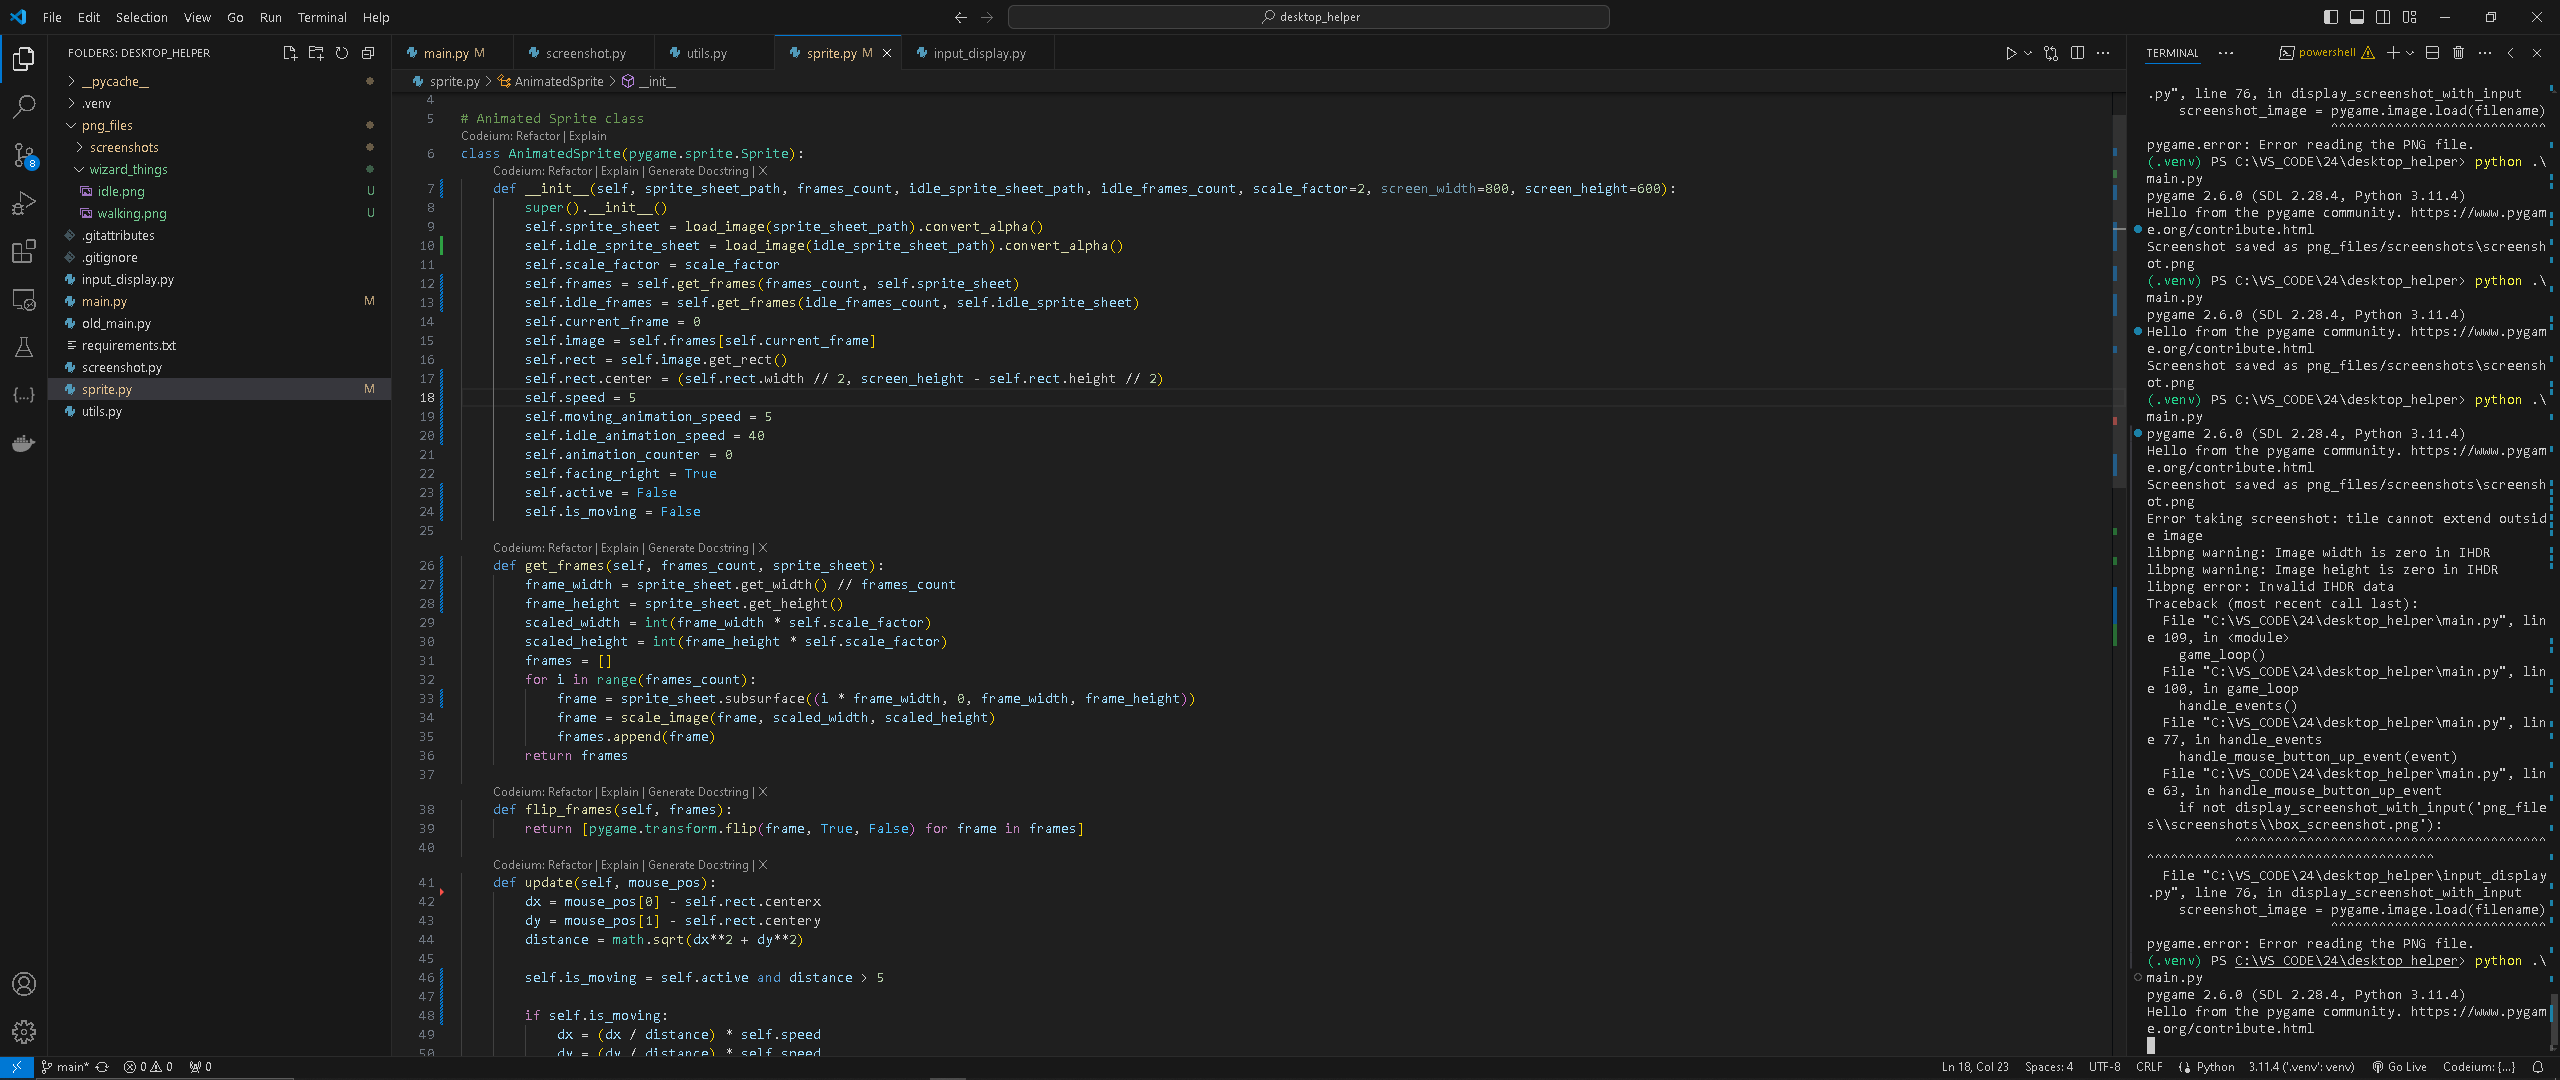
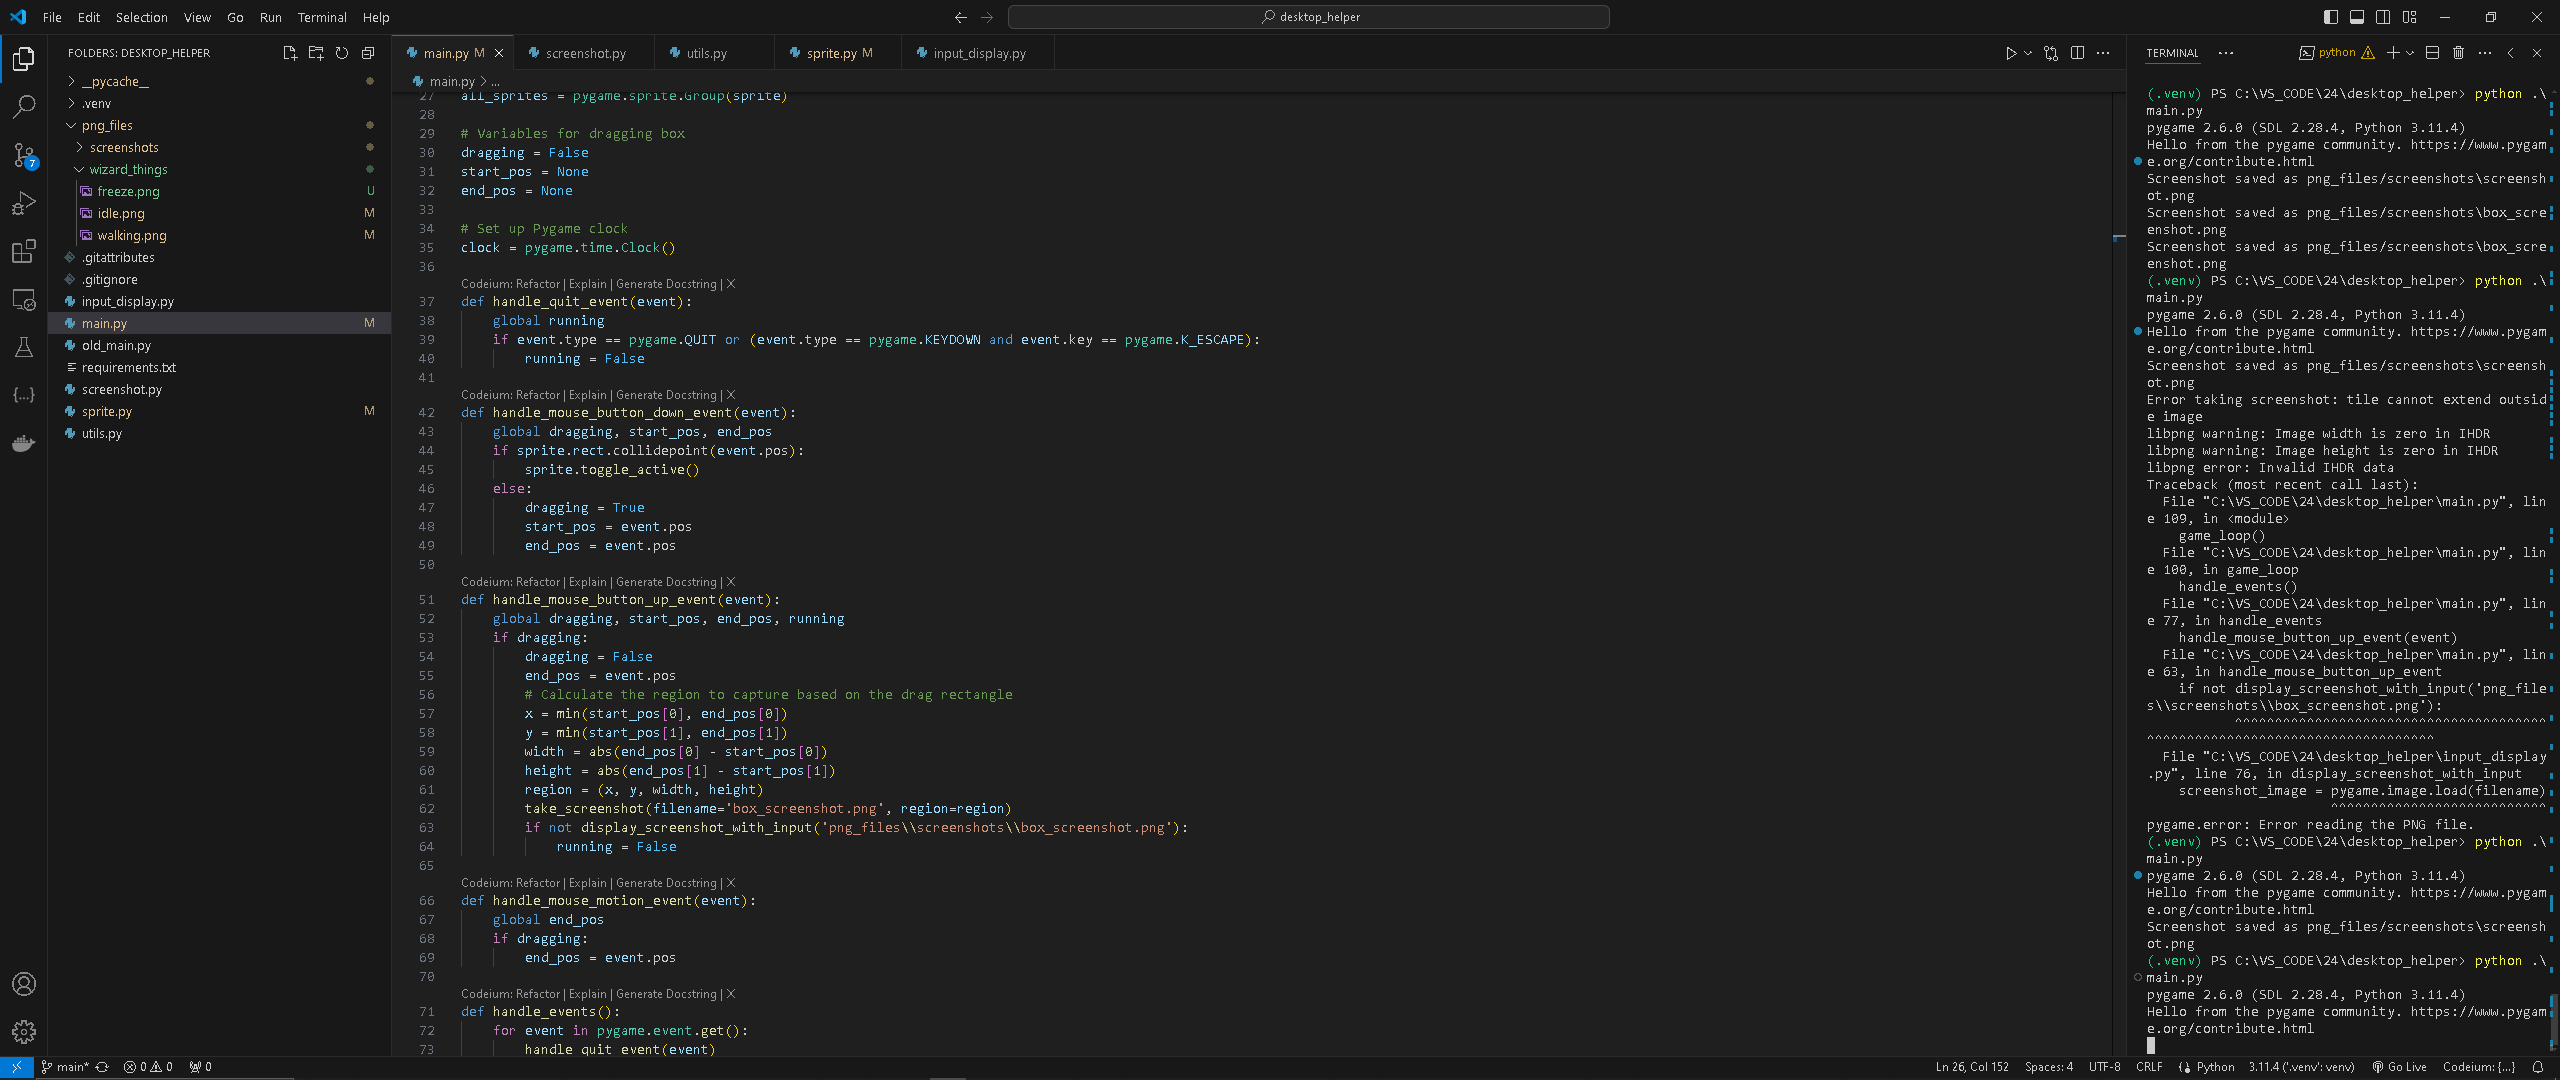
freeze animation
added freeze animation for the wizard on start

diff --git a/sprite.py b/sprite.py
@@ -4,24 +4,28 @@ from utils import load_image, scale_image
 
 # Animated Sprite class
 class AnimatedSprite(pygame.sprite.Sprite):
-    def __init__(self, sprite_sheet_path, frames_count, idle_sprite_sheet_path, idle_frames_count, scale_factor=2, screen_width=800, screen_height=600):
+    def __init__(self, sprite_sheet_path, frames_count, idle_sprite_sheet_path, idle_frames_count, freeze_sprite_sheet_path, freeze_frames_count, scale_factor=2, screen_width=800, screen_height=600):
         super().__init__()
         self.sprite_sheet = load_image(sprite_sheet_path).convert_alpha()
         self.idle_sprite_sheet = load_image(idle_sprite_sheet_path).convert_alpha()
+        self.freeze_sprite_sheet = load_image(freeze_sprite_sheet_path).convert_alpha()
         self.scale_factor = scale_factor
         self.frames = self.get_frames(frames_count, self.sprite_sheet)
         self.idle_frames = self.get_frames(idle_frames_count, self.idle_sprite_sheet)
+        self.freeze_frames = self.get_frames(freeze_frames_count, self.freeze_sprite_sheet)
         self.current_frame = 0
-        self.image = self.frames[self.current_frame]
+        self.image = self.freeze_frames[self.current_frame]
         self.rect = self.image.get_rect()
         self.rect.center = (self.rect.width // 2, screen_height - self.rect.height // 2)
         self.speed = 5
         self.moving_animation_speed = 5
         self.idle_animation_speed = 40
+        self.freeze_animation_speed = 10
         self.animation_counter = 0
         self.facing_right = True
         self.active = False
         self.is_moving = False
+        self.is_freezing = True  # Set is_freezing to True initially
 
     def get_frames(self, frames_count, sprite_sheet):
         frame_width = sprite_sheet.get_width() // frames_count
@@ -39,6 +43,19 @@ class AnimatedSprite(pygame.sprite.Sprite):
         return [pygame.transform.flip(frame, True, False) for frame in frames]
 
     def update(self, mouse_pos):
+        if self.is_freezing:
+            self.animation_counter += 1
+            if self.animation_counter >= self.freeze_animation_speed:
+                self.current_frame += 1
+                if self.current_frame >= len(self.freeze_frames):
+                    self.is_freezing = False
+                    self.current_frame = 0
+                    self.image = self.idle_frames[self.current_frame]
+                else:
+                    self.image = self.freeze_frames[self.current_frame]
+                self.animation_counter = 0
+            return
+
         dx = mouse_pos[0] - self.rect.centerx
         dy = mouse_pos[1] - self.rect.centery
         distance = math.sqrt(dx**2 + dy**2)
@@ -73,3 +90,7 @@ class AnimatedSprite(pygame.sprite.Sprite):
 
     def toggle_active(self):
         self.active = not self.active
+
+# Ensure to update the `load_image` and `scale_image` functions to include the freeze animation frames
+# Usage example:
+# animated_sprite = AnimatedSprite("path_to_move_sprite_sheet.png", move_frames_count, "path_to_idle_sprite_sheet.png", idle_frames_count, "path_to_freeze_sprite_sheet.png", freeze_frames_count)

diff --git a/main.py b/main.py
@@ -23,7 +23,7 @@ background = load_image('png_files\\screenshots\\screenshot.png').convert()
 background = scale_image(background, width, height)
 
 # Create animated sprite
-sprite = AnimatedSprite("png_files\wizard_things\walking.png", 4, "png_files\wizard_things\idle.png", 4, scale_factor=2, screen_width=width, screen_height=height)
+sprite = AnimatedSprite("png_files\\wizard_things\\walking.png", 4, "png_files\\wizard_things\\idle.png", 4, "png_files\\wizard_things\\freeze.png" ,10, scale_factor=2, screen_width=width, screen_height=height)
 all_sprites = pygame.sprite.Group(sprite)
 
 # Variables for dragging box
